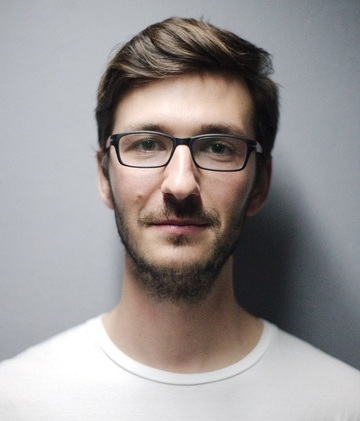
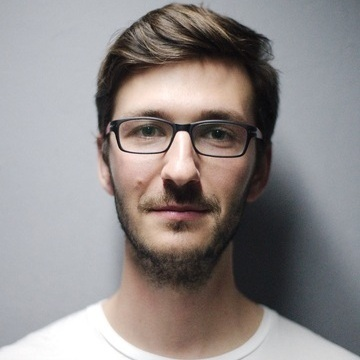
Iniciando a estilização

diff --git a/index.html b/index.html
@@ -3,22 +3,42 @@
 <head>
     <meta charset="UTF-8" />
     <title>Meu currículo</title>
+    <link
+        href="https://fonts.googleapis.com/css2?family=Poppins:ital,wght@0,100;0,200;0,300;0,400;0,500;0,600;0,700;0,800;0,900;1,100;1,200;1,300;1,400;1,500;1,600;1,700;1,800;1,900&display=swap"
+        rel="stylesheet">
 </head>
 
-<body>
+<body style="margin: 0; font-family: 'Poppins';">
 
-    <header>
-        <h1>Currículo Profissional</h1>
+    <header style="background-color: #F51C1C;
+        margin: 0; 
+        padding: 24px 32px;
+    ">
+        <h1 style="color: white; 
+        margin: 0; 
+        font-weight: 400; 
+        font-size: 48px;
+    ">Currículo Profissional</h1>
     </header>
 
-    <main>
+    <main style="width: 1140px; 
+        background-color: aqua; 
+        margin: auto;
+    ">
         <!-- Foto e nome do candidato -->
-        <section>
-            <img src="./assets/perfil.jpg" />
-            <h2>Celso Furtado</h2>
-            <h3>Desenvolvedor Full Stack em formação</h3>
-            <hr />
+        <section style="width: 500px; 
+            background-color: burlywood; 
+            margin: auto;
+            text-align: center;
+        ">
+            <img src="./assets/perfil.jpg" style="
+                width: 192px;
+                border-radius: 96px;
+            "/>
+            <h2 style="font-size: 36px; font-weight: 700;">Celso Furtado</h2>
+            <h3 style="font-size: 24px; font-weight: 400; color: #676767;">Desenvolvedor Full Stack em formação</h3>
         </section>
+        <hr />
 
         <!-- Dados pessoais -->
         <section>
